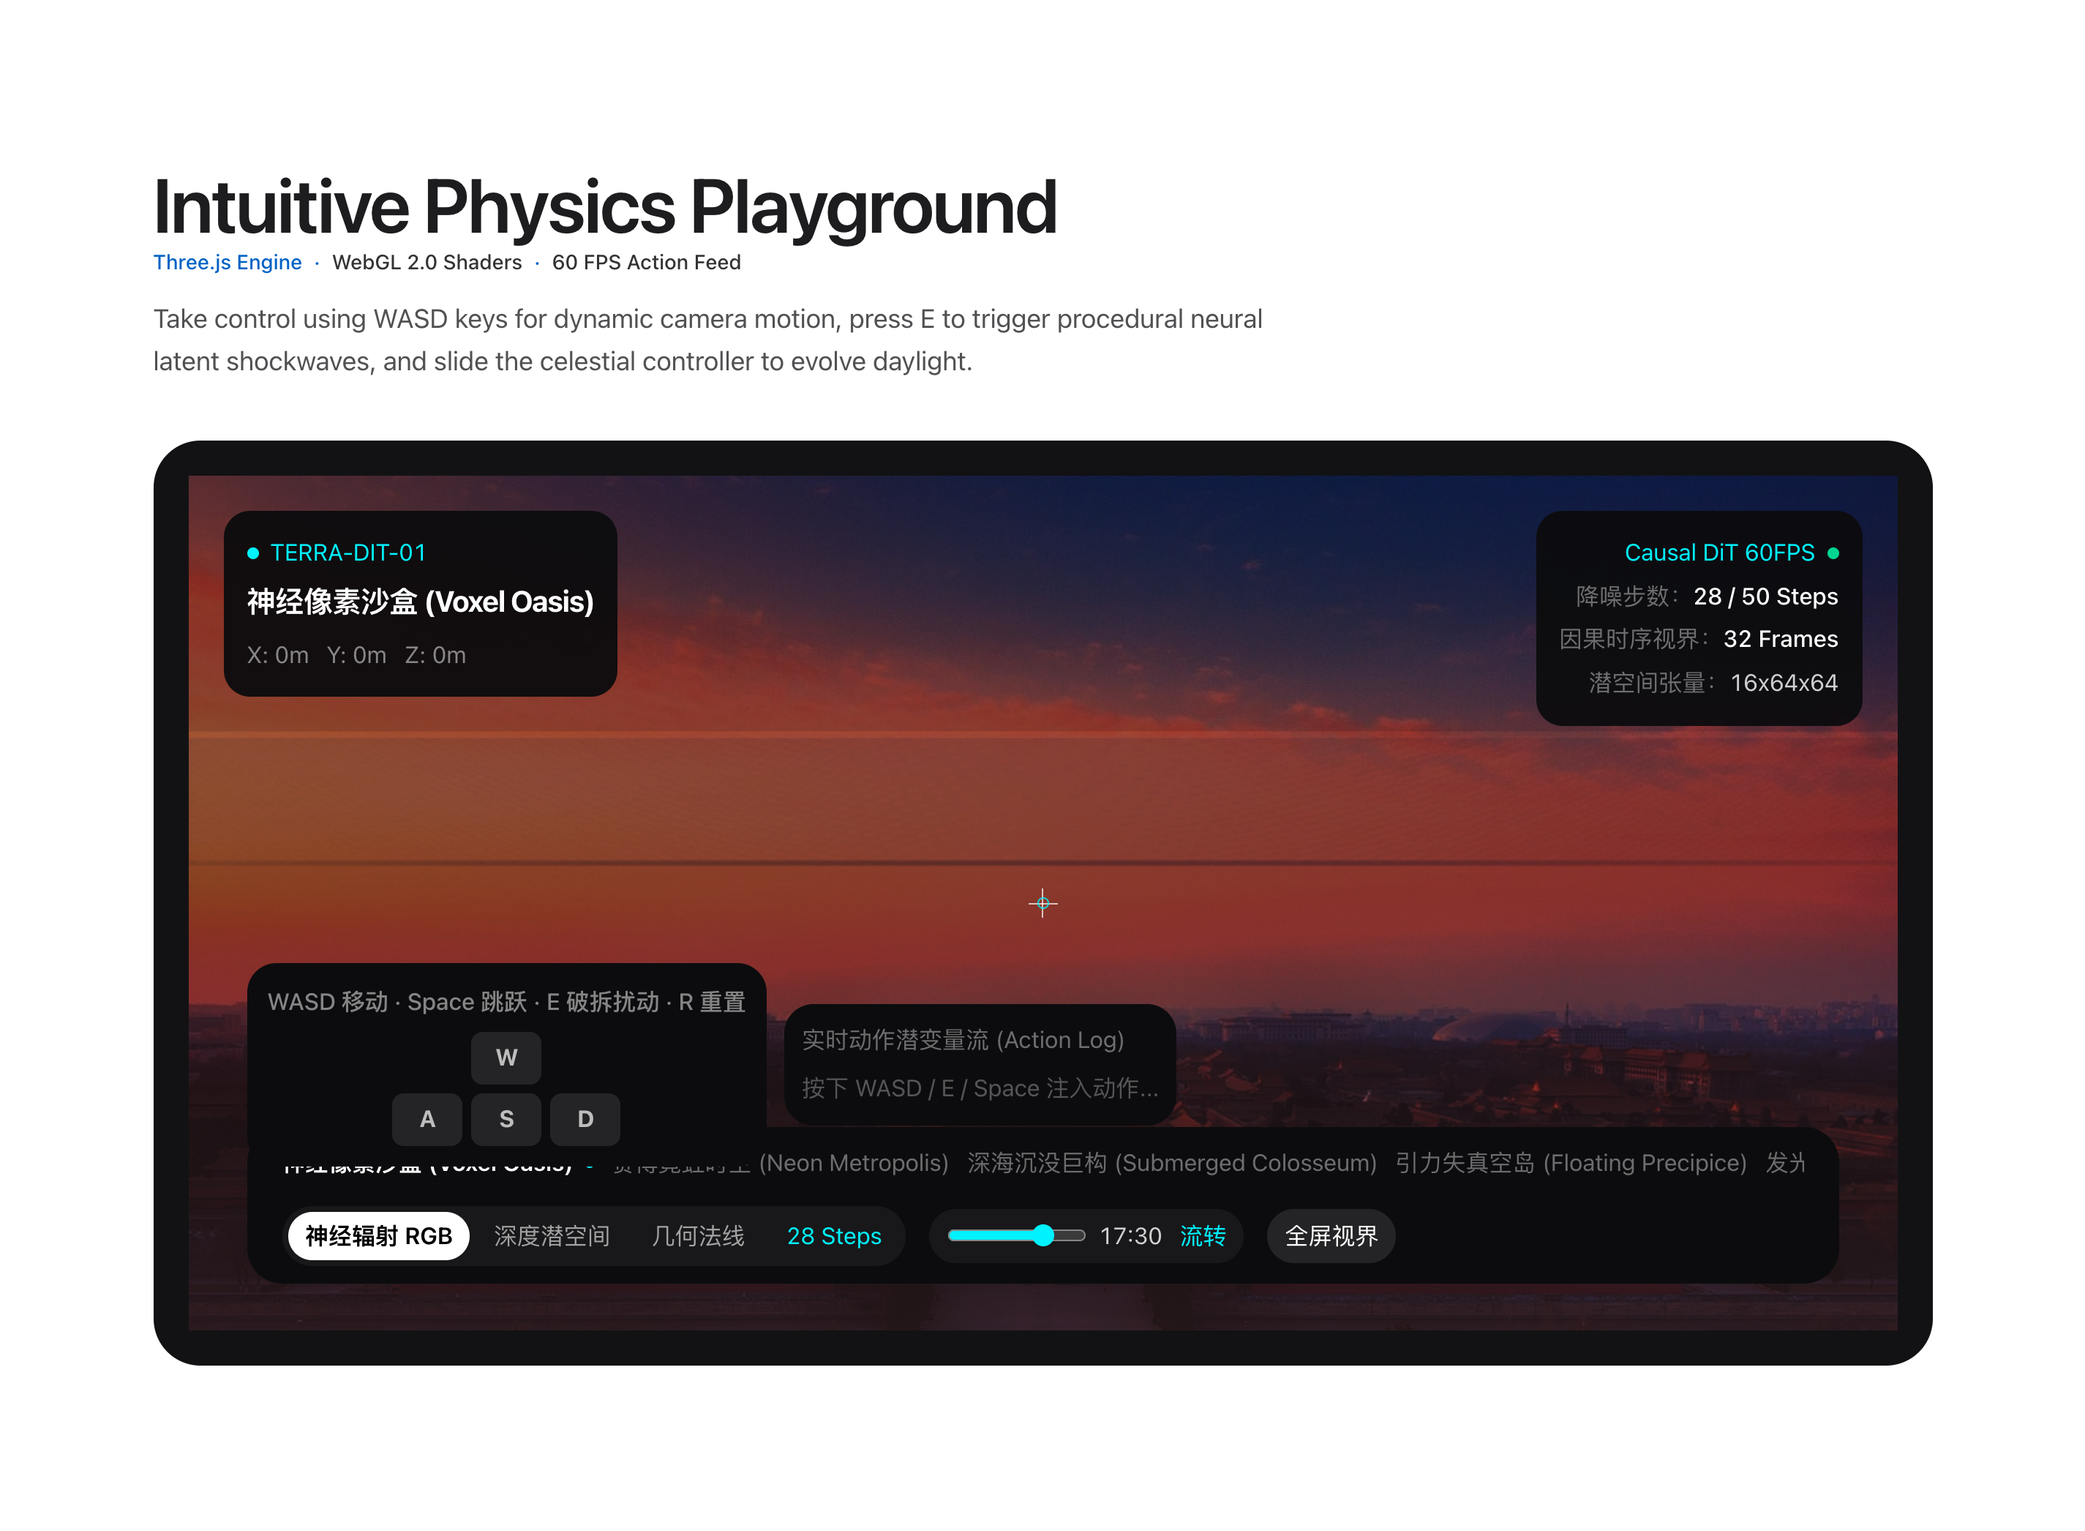
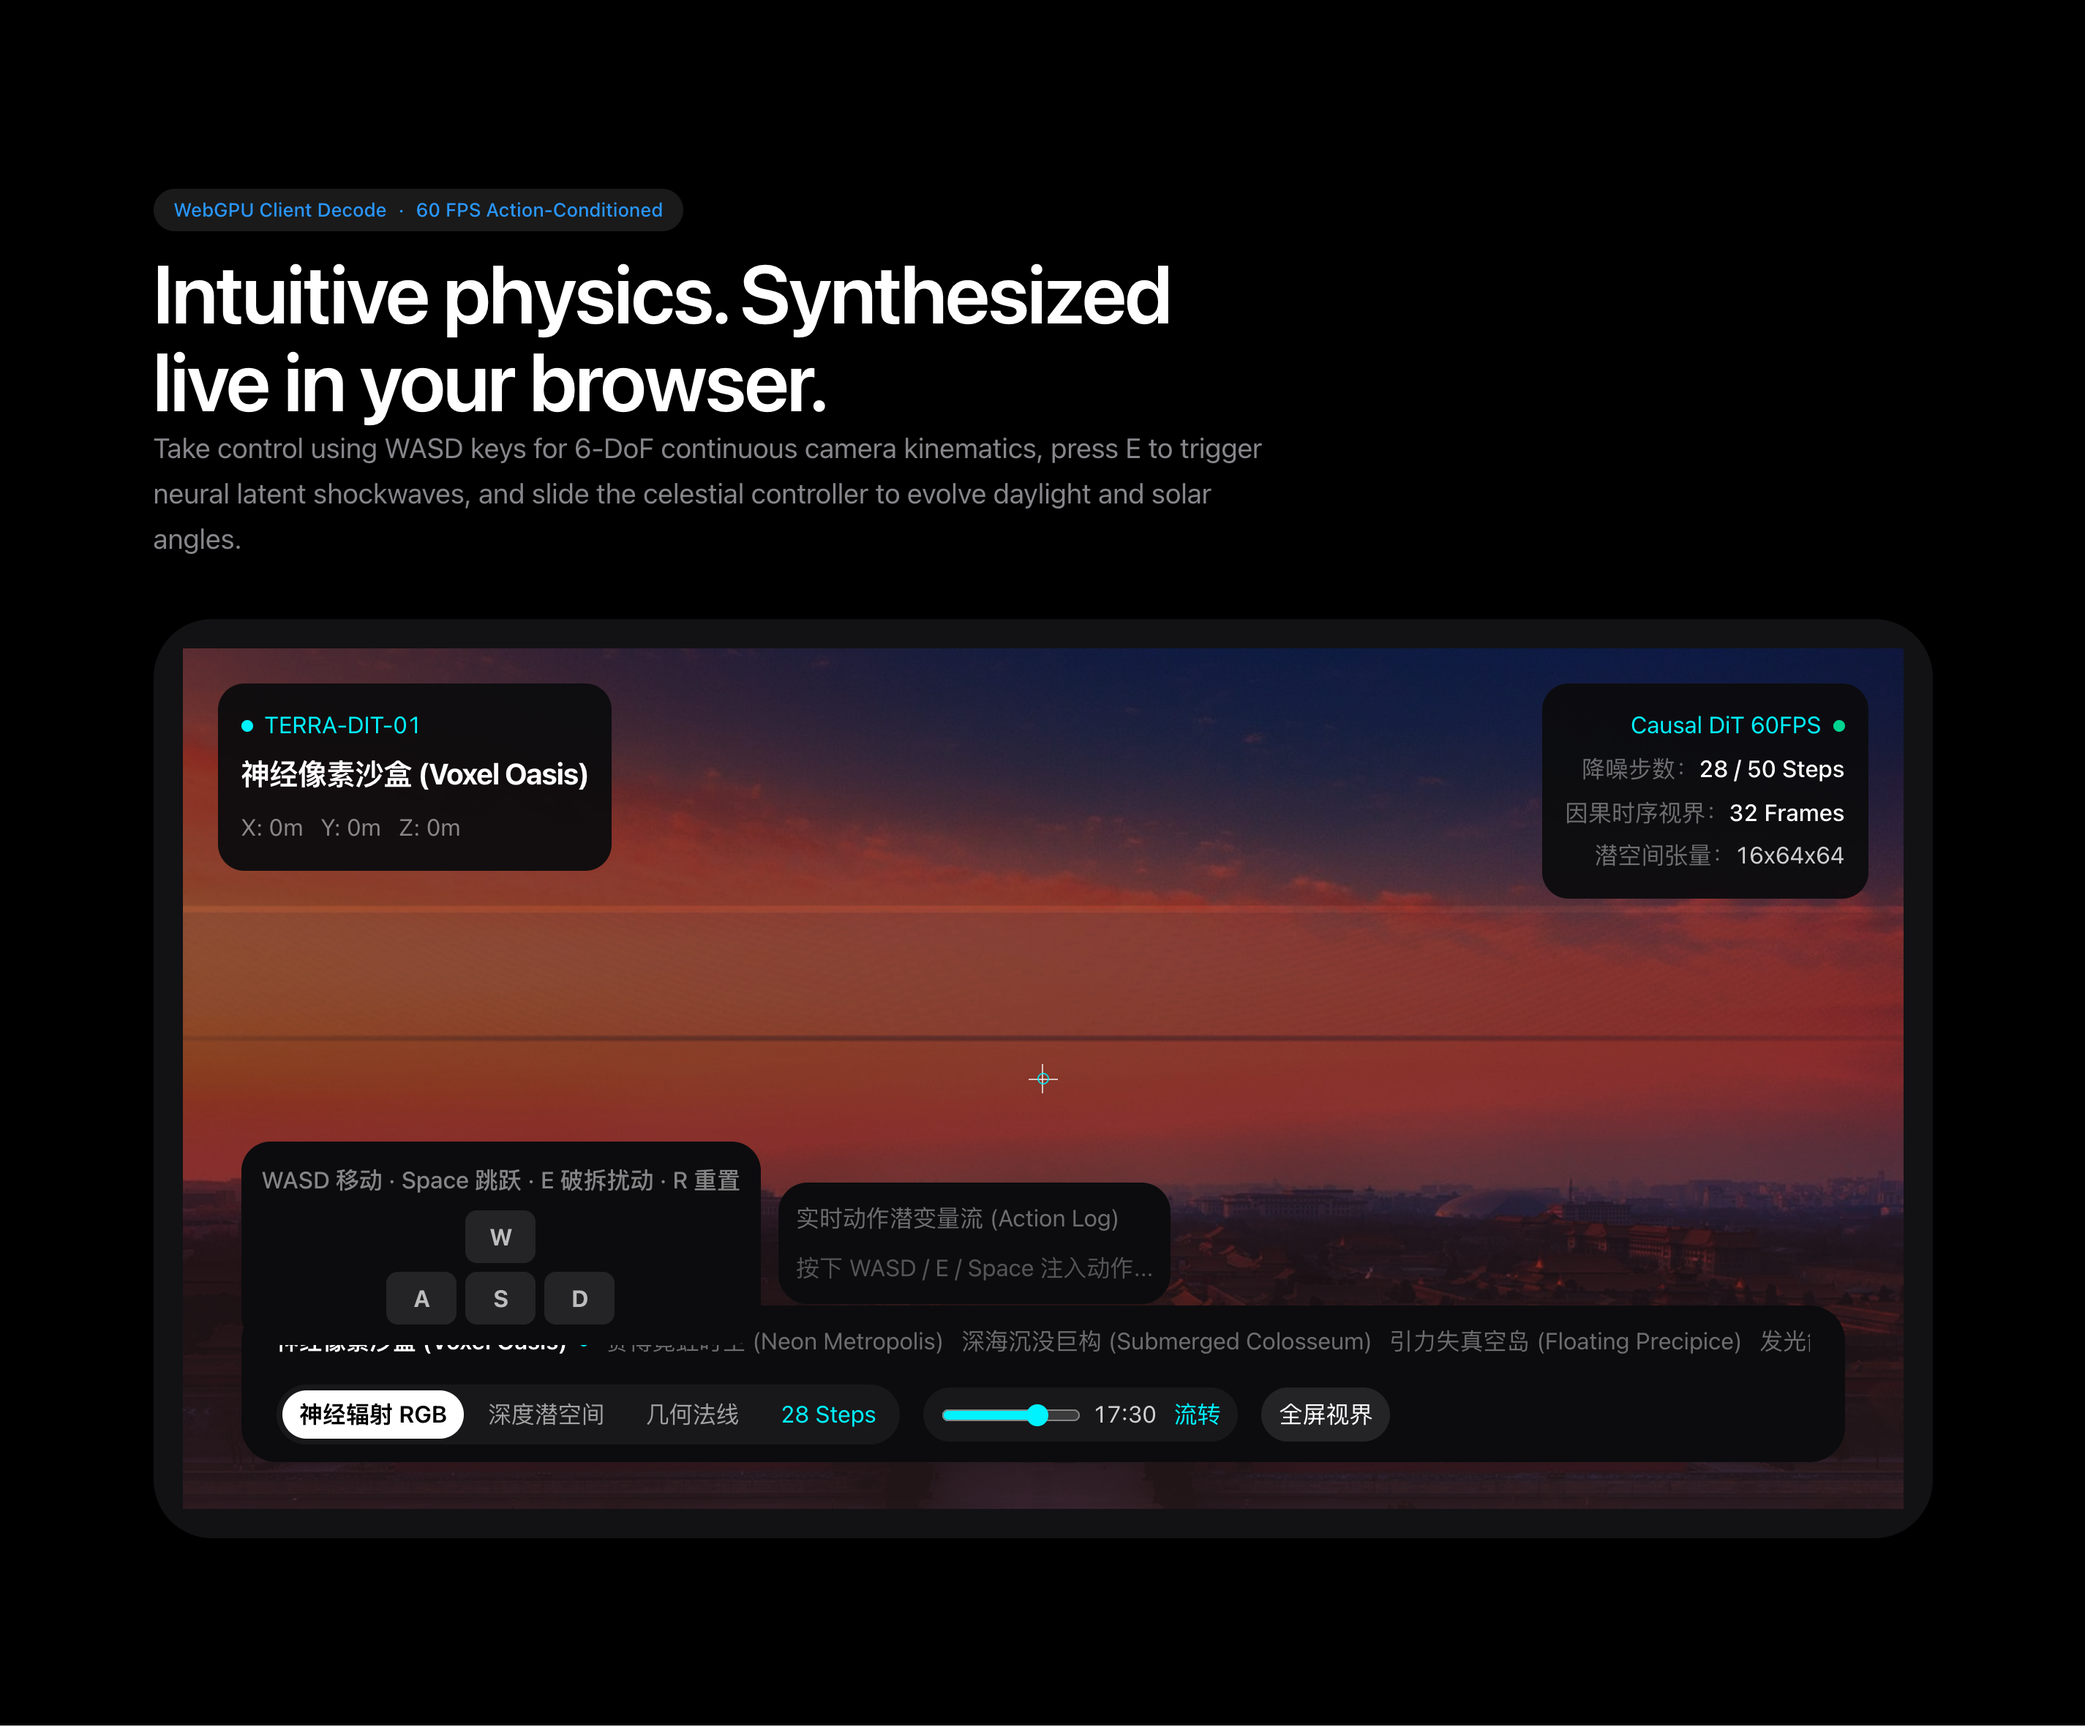
feat(ui): elevate 3D simulator to cinematic dark theater and enrich architecture pipeline specs

diff --git a/src/app/page.tsx b/src/app/page.tsx
@@ -342,34 +342,32 @@ export default function HomePage() {
         </section>
 
         {/* =========================================================================
-            6. Interactive 3D Simulator (感受我们的世界模型：剧场级实机沙盒)
+            6. Interactive 3D Simulator (Apple 剧场级深黑实机沙盒)
            ========================================================================= */}
-        <section id="interactive-playground" className="bg-white py-20 sm:py-28 terra-reveal w-full box-border">
-          <div className="mx-auto max-w-7xl px-6 sm:px-8 space-y-10">
+        <section id="interactive-playground" className="bg-[#000000] text-white py-24 sm:py-32 terra-reveal w-full box-border relative overflow-hidden">
+          <div className="relative z-10 mx-auto max-w-7xl px-6 sm:px-8 space-y-10">
             <div className="max-w-3xl space-y-3">
-              <h2 className="text-[32px] sm:text-[44px] lg:text-[52px] font-semibold text-[#1d1d1f] tracking-tight leading-[1.08]">
-                {lang === "en"
-                  ? "Intuitive Physics Playground"
-                  : "亲历自发涌现的直觉物理世界模型。"}
-              </h2>
-
-              <div className="flex items-center gap-2 text-[14px] text-[#0062c4] font-medium">
-                <span>Three.js Engine</span>
+              <div className="inline-flex items-center gap-2 rounded-full bg-white/10 px-3.5 py-1 text-[13px] font-medium text-[#2997ff]">
+                <span>WebGPU Client Decode</span>
                 <span>·</span>
-                <span className="text-[#333336]">WebGL 2.0 Shaders</span>
-                <span>·</span>
-                <span className="text-[#333336]">60 FPS Action Feed</span>
+                <span>60 FPS Action-Conditioned</span>
               </div>
 
-              <p className="text-[16px] sm:text-[18px] text-[#515154] leading-relaxed">
+              <h2 className="text-[34px] sm:text-[48px] lg:text-[56px] font-semibold text-white tracking-tight leading-[1.06]">
                 {lang === "en"
-                  ? "Take control using WASD keys for dynamic camera motion, press E to trigger procedural neural latent shockwaves, and slide the celestial controller to evolve daylight."
-                  : "键盘 WASD 键平滑走行动力学，E 键触发局部潜空间形变冲击波，滑动时间轴实时感受北京古建与现代园区的天光云影演变。"}
+                  ? "Intuitive physics. Synthesized live in your browser."
+                  : "自发涌现的直觉物理，在浏览器中即刻亲历。"}
+              </h2>
+
+              <p className="text-[17px] sm:text-[19px] text-[#86868b] leading-relaxed">
+                {lang === "en"
+                  ? "Take control using WASD keys for 6-DoF continuous camera kinematics, press E to trigger neural latent shockwaves, and slide the celestial controller to evolve daylight and solar angles."
+                  : "键盘 WASD 键平滑走行动力学，E 键触发局部潜空间形变冲击波，滑动时间轴实时感受天光云影与太阳高度角的连续因果演变。"}
               </p>
             </div>
 
             {/* 实机运行的 3D 模拟器外壳 */}
-            <div className="rounded-[32px] bg-[#121214] p-4 sm:p-6 w-full box-border text-white">
+            <div className="rounded-[32px] sm:rounded-[40px] bg-[#121214] p-3 sm:p-5 w-full box-border text-white" data-ui="true">
               <WorldModelSimulator
                 activeWorldId={activeWorldId}
                 onSelectWorld={setActiveWorldId}

diff --git a/src/components/apple-architecture-compare.tsx b/src/components/apple-architecture-compare.tsx
@@ -143,6 +143,54 @@ export function AppleArchitectureCompare() {
               </p>
             </div>
 
+            {/* Apple 芯片发布会式动态管线流向 */}
+            <div className="space-y-2">
+              <div className="text-[11px] font-semibold tracking-wider uppercase text-[#86868b]">
+                {activeMode === "oasis"
+                  ? (lang === "en" ? "AUTOREGRESSIVE PIPELINE" : "自回归计算管线流程")
+                  : (lang === "en" ? "LEGACY DISCRETE PIPELINE" : "传统离散渲染管线流程")}
+              </div>
+              <div className="flex flex-wrap items-center gap-2 text-[12px]">
+                {activeMode === "oasis" ? (
+                  <>
+                    <span className="rounded-full bg-white px-3 py-1 font-medium text-[#1d1d1f]">
+                      {lang === "en" ? "Action Input a(t)" : "连续动作向量 a(t)"}
+                    </span>
+                    <span className="text-[#86868b]">→</span>
+                    <span className="rounded-full bg-[#0071e3]/10 px-3 py-1 font-semibold text-[#0071e3]">
+                      {lang === "en" ? "14B Causal DiT" : "14B 因果时空 DiT"}
+                    </span>
+                    <span className="text-[#86868b]">→</span>
+                    <span className="rounded-full bg-white px-3 py-1 font-medium text-[#1d1d1f]">
+                      {lang === "en" ? "Dual Memory Anchors" : "双记忆锚点"}
+                    </span>
+                    <span className="text-[#86868b]">→</span>
+                    <span className="rounded-full bg-white px-3 py-1 font-medium text-[#34c759]">
+                      {lang === "en" ? "60 FPS Photons" : "60 FPS 无坍塌光子"}
+                    </span>
+                  </>
+                ) : (
+                  <>
+                    <span className="rounded-full bg-white px-3 py-1 font-medium text-[#1d1d1f]">
+                      {lang === "en" ? "Discrete Meshes" : "离散网格资产"}
+                    </span>
+                    <span className="text-[#86868b]">→</span>
+                    <span className="rounded-full bg-white px-3 py-1 font-medium text-[#1d1d1f]">
+                      {lang === "en" ? "Hand-tuned Colliders" : "手工碰撞体"}
+                    </span>
+                    <span className="text-[#86868b]">→</span>
+                    <span className="rounded-full bg-white px-3 py-1 font-medium text-[#1d1d1f]">
+                      {lang === "en" ? "Discrete PhysX Raycast" : "离散物理检测"}
+                    </span>
+                    <span className="text-[#86868b]">→</span>
+                    <span className="rounded-full bg-white px-3 py-1 font-medium text-[#ff3b30]">
+                      {lang === "en" ? "Frequent Clipping" : "易穿模/坍塌"}
+                    </span>
+                  </>
+                )}
+              </div>
+            </div>
+
             {/* 关键特性胶囊组 */}
             <div className="grid grid-cols-1 sm:grid-cols-2 gap-4 pt-4">
               <div className="space-y-1">
